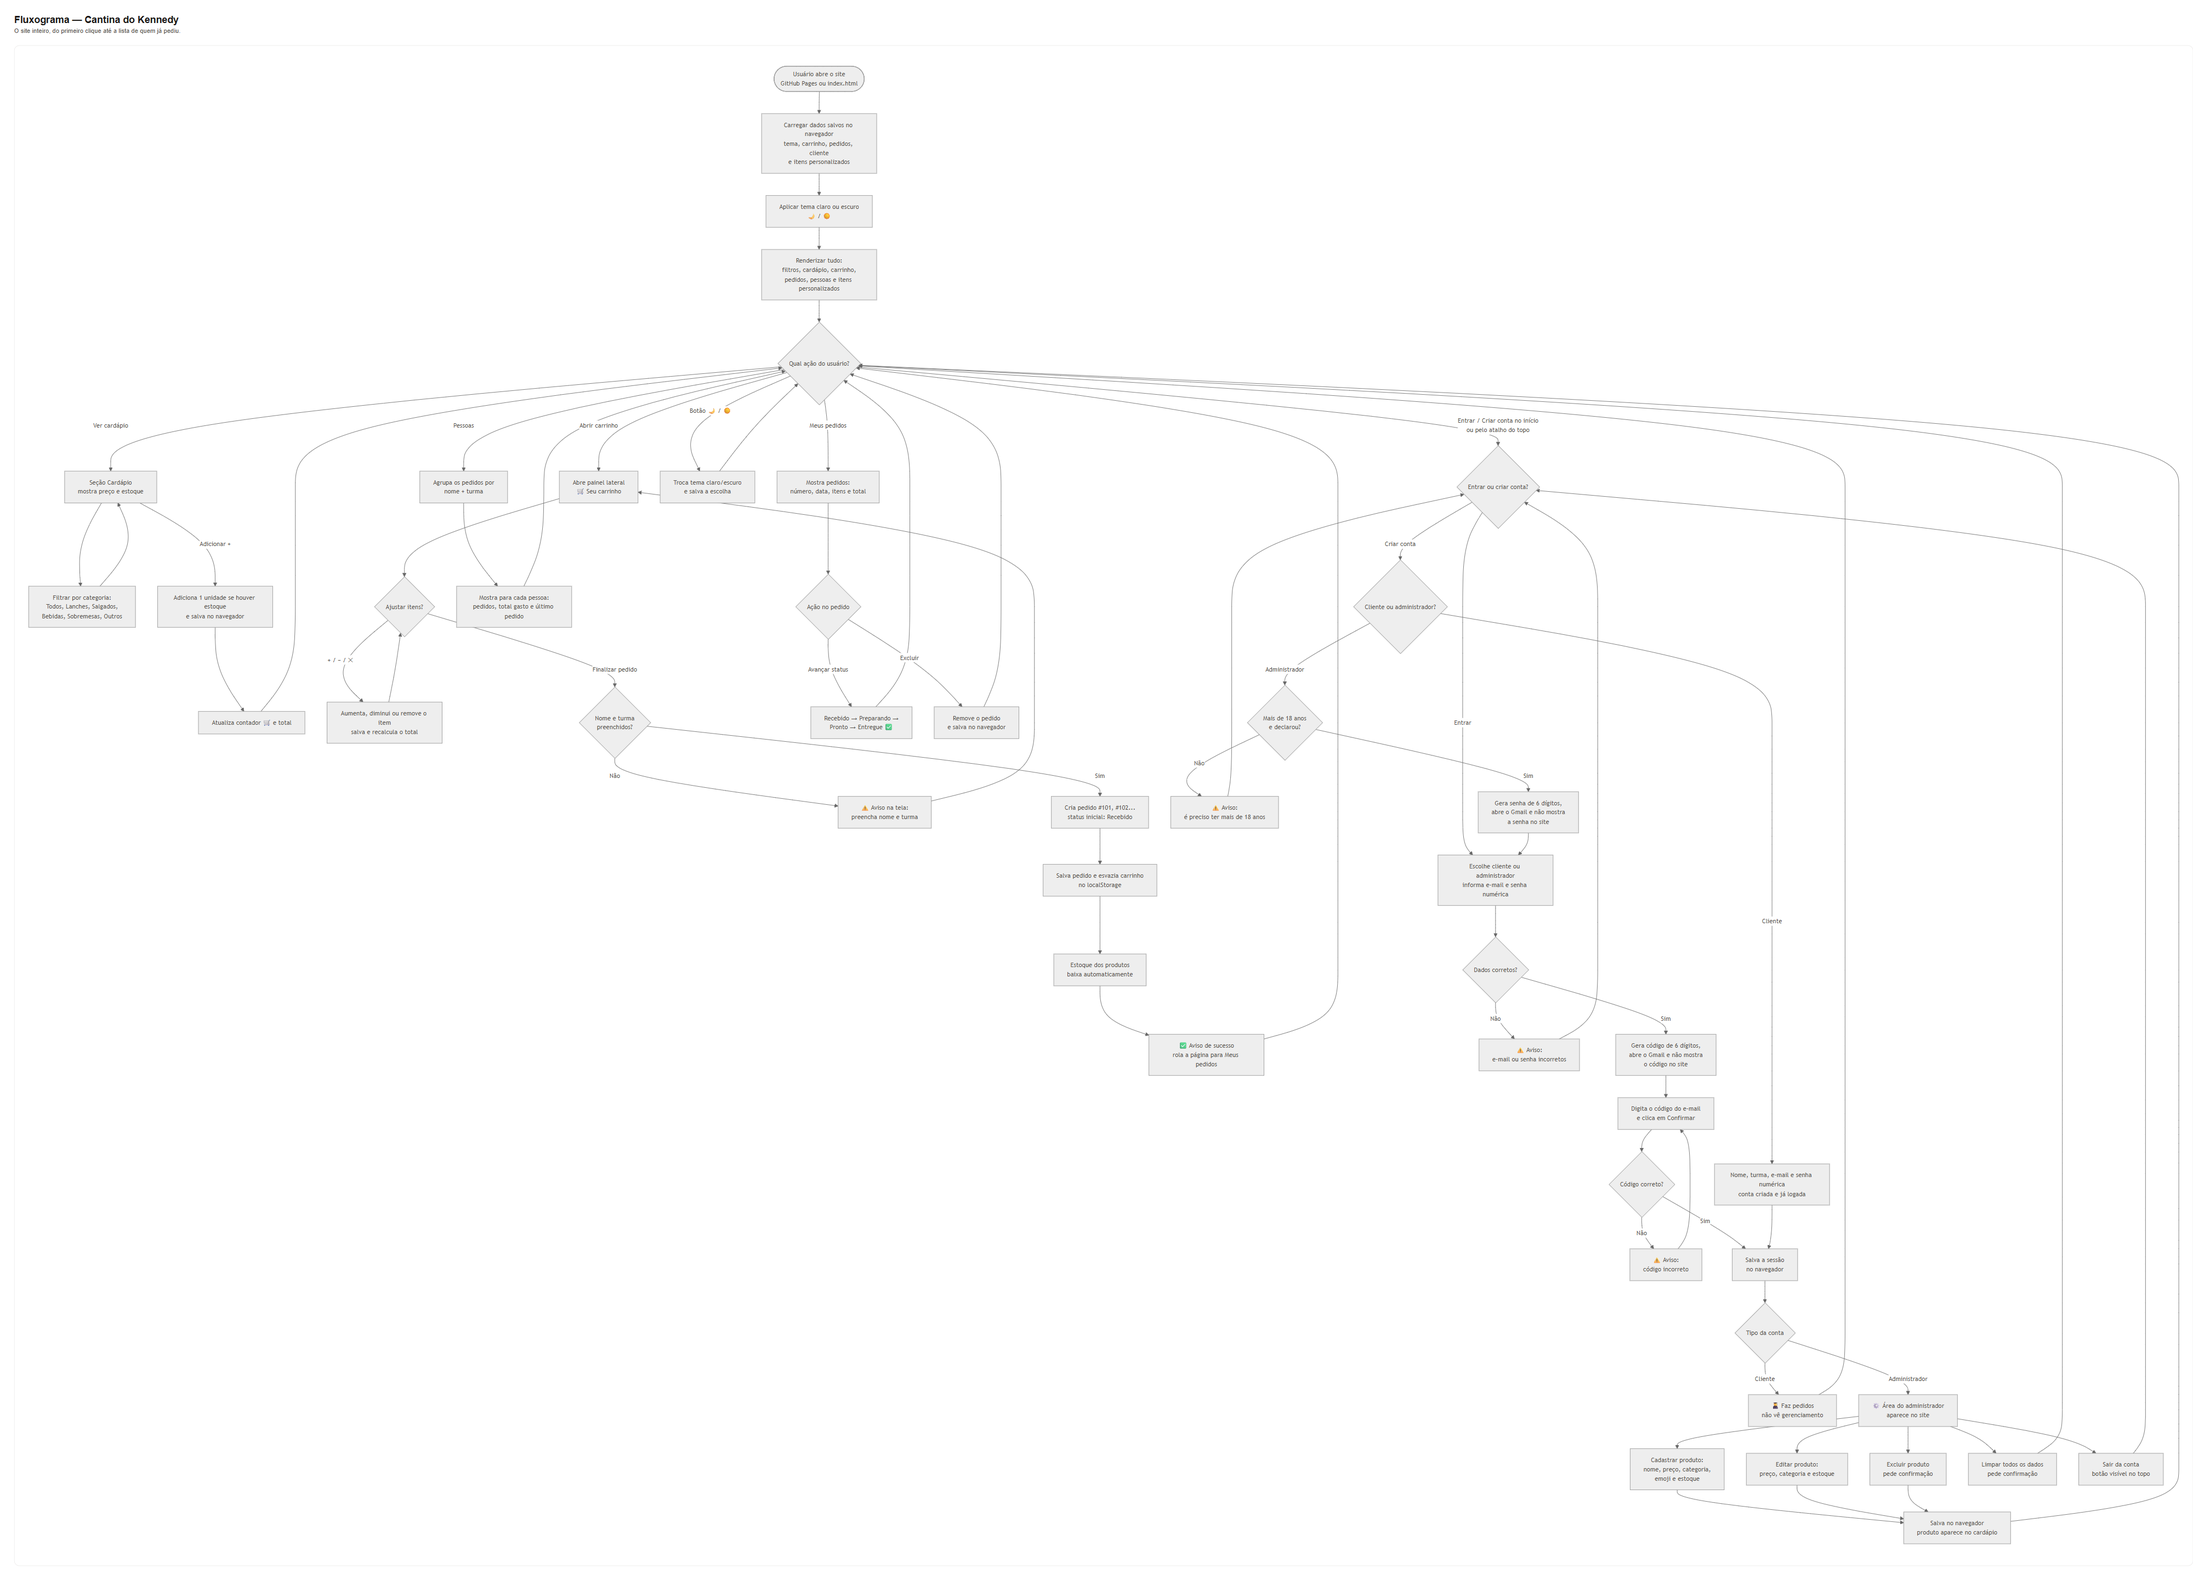
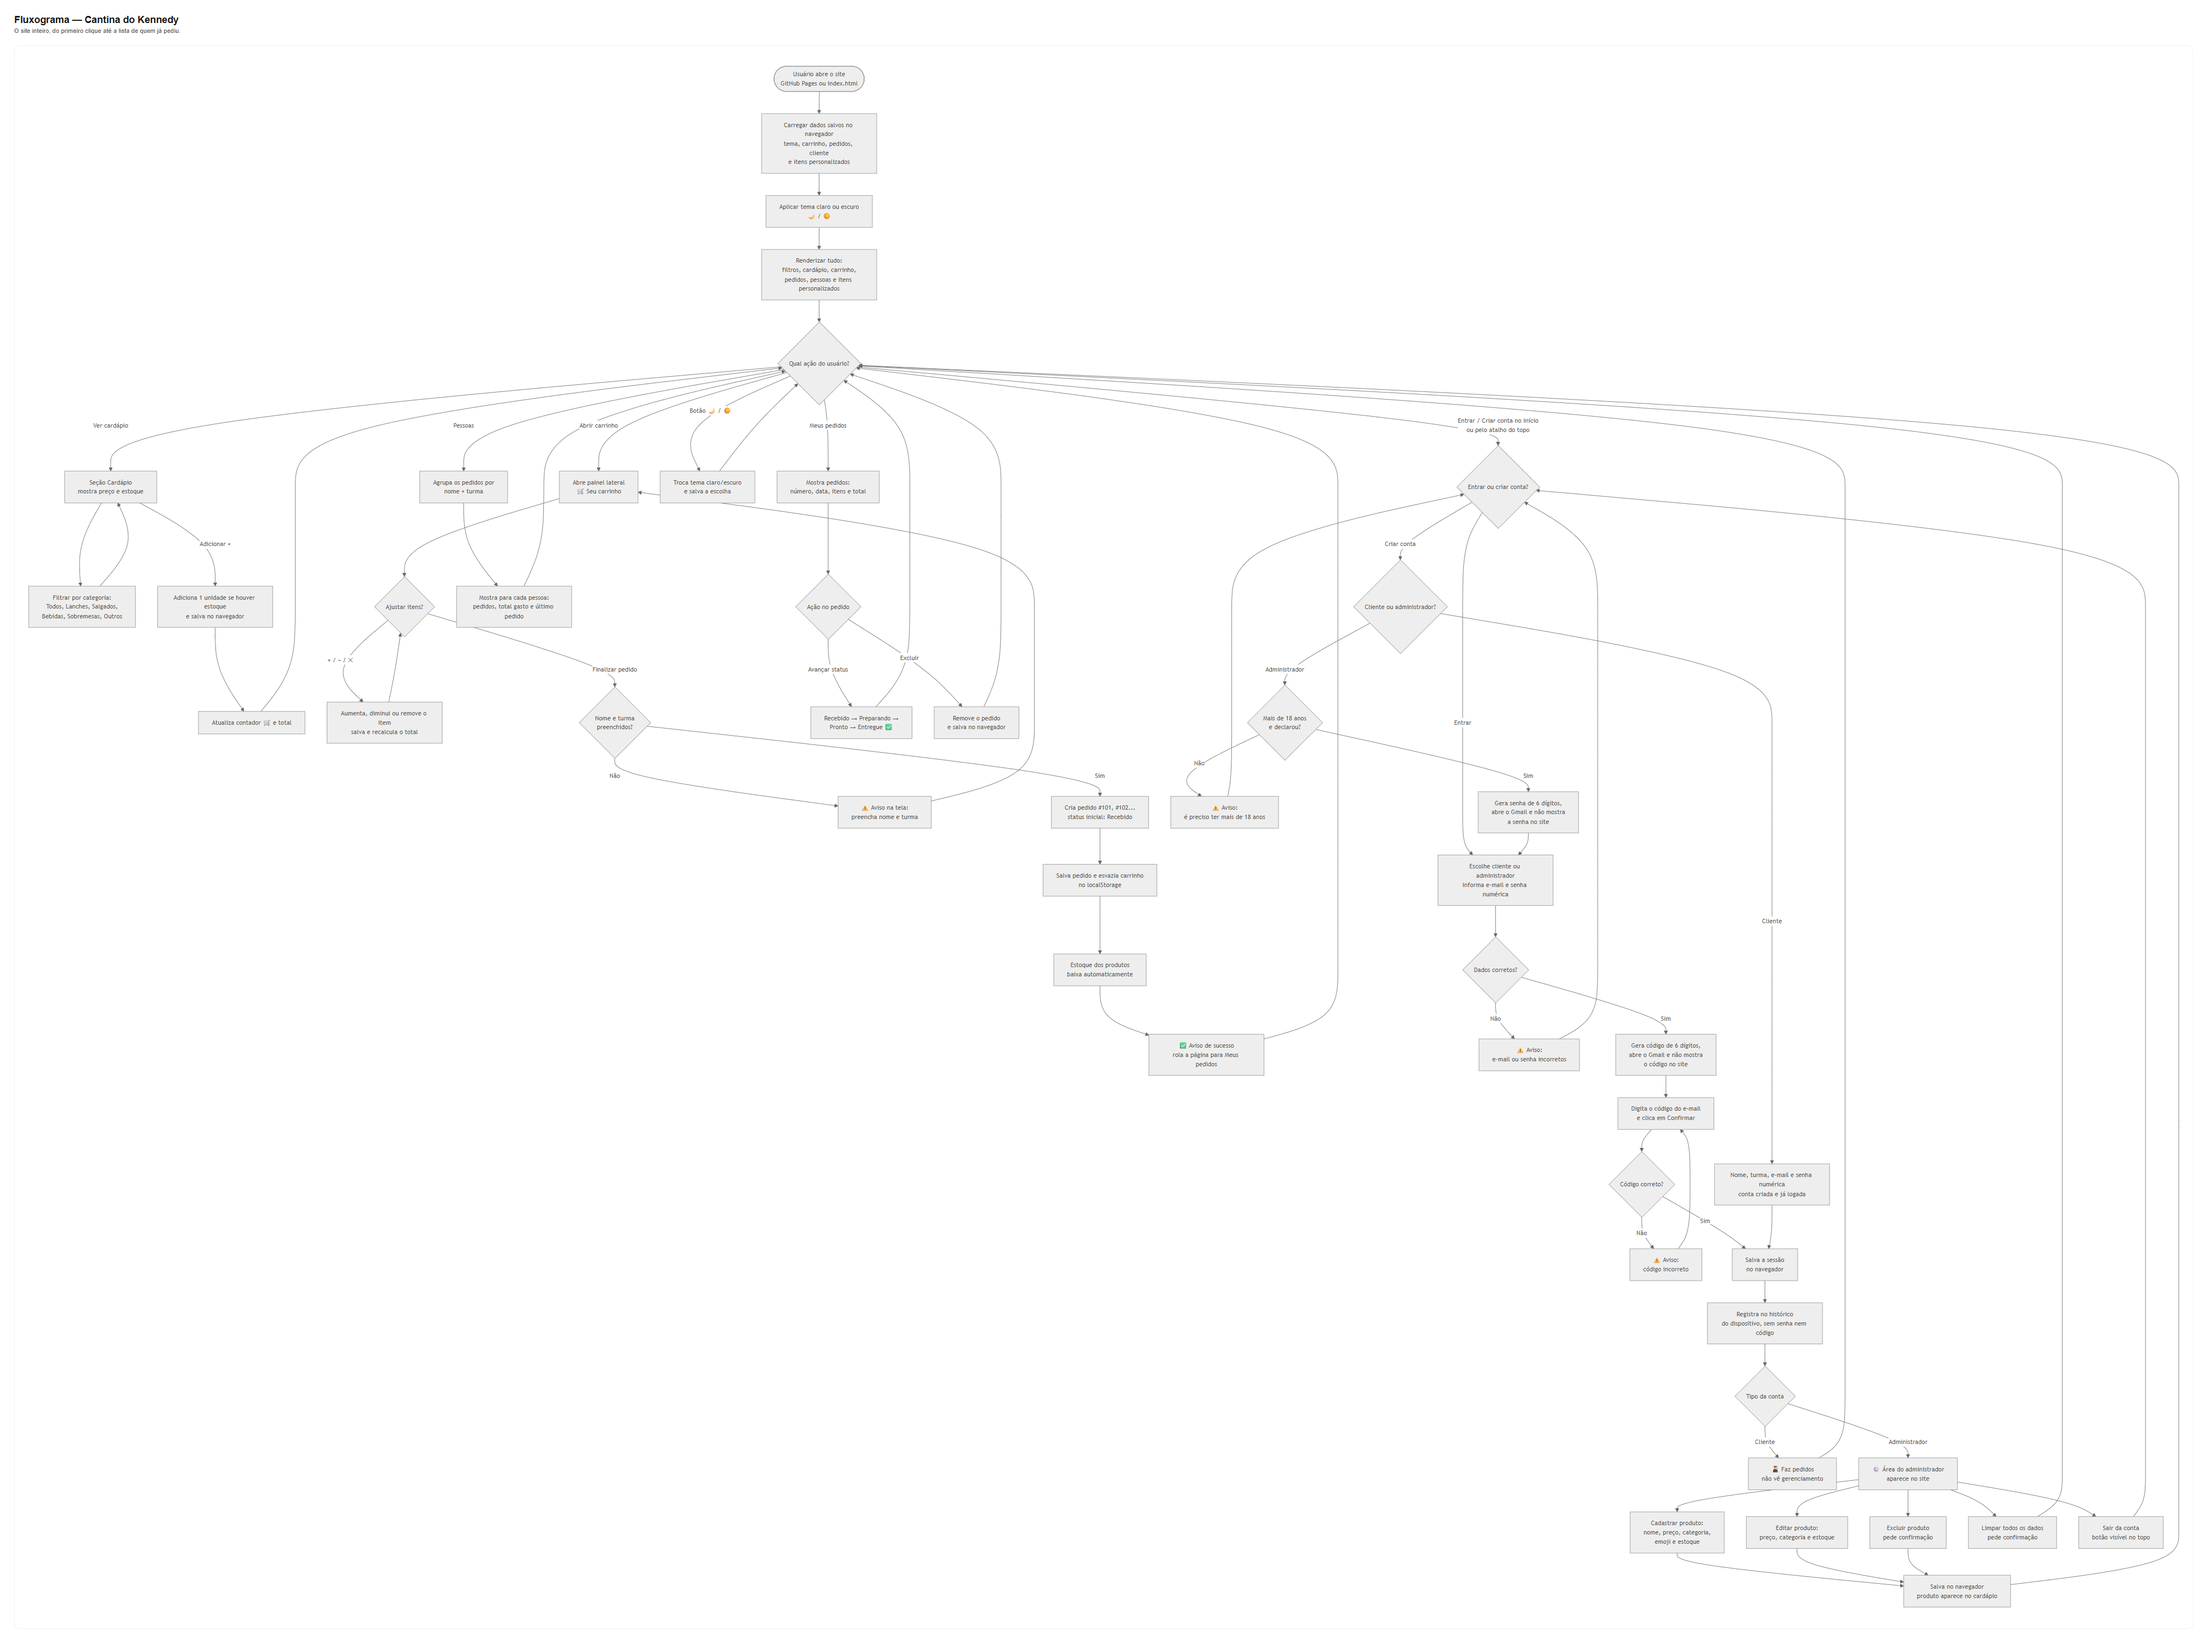
Salva historico de login no dispositivo

diff --git a/app.js b/app.js
@@ -14,6 +14,7 @@ const CHAVES = {
   cardapioExcluidos: 'cantina.cardapio.excluidos',
   cardapioEstoque: 'cantina.cardapio.estoque',
   contas: 'cantina.contas',
+  historicoLogin: 'cantina.historico.login',
   sessao: 'cantina.sessao',
   carrinho: 'cantina.carrinho',
   pedidos: 'cantina.pedidos',
@@ -98,6 +99,9 @@ const el = {
   senhaGerada: $('#senha-gerada'),
   linkGmail: $('#link-gmail'),
   authLogado: $('#auth-logado'),
+  historicoLogin: $('#historico-login'),
+  listaHistorico: $('#lista-historico'),
+  btnLimparHistorico: $('#btn-limpar-historico'),
   nomeLogado: $('#nome-logado'),
   tipoLogado: $('#tipo-logado'),
   btnSair: $('#btn-sair'),
@@ -295,6 +299,36 @@ function renderizarAdmin() {
   }
 }
 
+// Guarda no dispositivo os logins feitos com sucesso (nunca senha ou código).
+function registrarLogin(conta) {
+  const entrada = {
+    nome: conta.nome,
+    email: conta.email,
+    tipo: conta.tipo,
+    data: new Date().toISOString()
+  };
+  historicoLogin = [entrada, ...historicoLogin].slice(0, 30);
+  salvar(CHAVES.historicoLogin, historicoLogin);
+}
+
+function renderizarHistorico() {
+  el.historicoLogin.hidden = historicoLogin.length === 0;
+  el.listaHistorico.innerHTML = historicoLogin.map((entrada) => {
+    const data = new Date(entrada.data);
+    const quando = Number.isNaN(data.getTime())
+      ? ''
+      : data.toLocaleString('pt-BR', {
+        day: '2-digit', month: '2-digit', year: 'numeric',
+        hour: '2-digit', minute: '2-digit'
+      });
+    const tipo = entrada.tipo === 'admin' ? 'administrador' : 'cliente';
+    return '<div class="item-historico">'
+      + `<span><strong>${escapar(entrada.nome)}</strong> <small>(${tipo})</small></span>`
+      + `<small>${escapar(entrada.email)} • ${escapar(quando)}</small>`
+      + '</div>';
+  }).join('');
+}
+
 function criarConta(evento) {
   evento.preventDefault();
 
@@ -352,6 +386,7 @@ function criarConta(evento) {
     alternarModo('login');
     sessao = { tipo: 'cliente', nome, email };
     salvar(CHAVES.sessao, sessao);
+    registrarLogin(conta);
     cliente = { nome, turma: conta.turma };
     salvar(CHAVES.cliente, cliente);
     el.nome.value = nome;
@@ -410,6 +445,7 @@ function confirmarCodigo() {
   const conta = codigoPendente.conta;
   sessao = { tipo: conta.tipo, nome: conta.nome, email: conta.email };
   salvar(CHAVES.sessao, sessao);
+  registrarLogin(conta);
 
   if (conta.tipo === 'cliente') {
     cliente = { nome: conta.nome, turma: conta.turma || '' };
@@ -466,6 +502,7 @@ let cardapioEditados = ler(CHAVES.cardapioEditados, {});
 let cardapioExcluidos = ler(CHAVES.cardapioExcluidos, []);
 let cardapioEstoque = ler(CHAVES.cardapioEstoque, {});
 let contas = ler(CHAVES.contas, []);
+let historicoLogin = ler(CHAVES.historicoLogin, []);
 let senhaPendente = null; // senha do admin só na memória, enquanto o e-mail não é enviado
 let codigoPendente = null; // código do login só na memória, nunca aparece no site
 let modoAuth = 'login';
@@ -860,6 +897,7 @@ function renderizarTudo() {
   renderizarPedidos();
   renderizarPessoas();
   renderizarAdmin();
+  renderizarHistorico();
   renderizarListaAdmin();
 }
 
@@ -947,6 +985,13 @@ el.abaCriar.addEventListener('click', () => {
 });
 el.btnSair.addEventListener('click', sair);
 el.btnSairTopo.addEventListener('click', sair);
+el.btnLimparHistorico.addEventListener('click', () => {
+  if (!confirm('Apagar o histórico de login salvo neste dispositivo?')) return;
+  historicoLogin = [];
+  salvar(CHAVES.historicoLogin, historicoLogin);
+  renderizarHistorico();
+  mostrarMensagem('Histórico de login apagado.');
+});
 el.btnCancelarEdicao.addEventListener('click', resetarFormItem);
 el.btnConfirmarCodigo.addEventListener('click', confirmarCodigo);
 el.btnCancelarCodigo.addEventListener('click', cancelarCodigo);
@@ -997,6 +1042,7 @@ el.btnLimpar.addEventListener('click', () => {
   cardapioExcluidos = [];
   cardapioEstoque = {};
   contas = [];
+  historicoLogin = [];
   sessao = null;
   senhaPendente = null;
   codigoPendente = null;
@@ -1024,6 +1070,7 @@ el.btnLimpar.addEventListener('click', () => {
 // ---------- Início ----------
 if (sessao === null) localStorage.removeItem(CHAVES.sessao);
 if (!Array.isArray(contas)) contas = [];
+if (!Array.isArray(historicoLogin)) historicoLogin = [];
 atualizarCamposCriacao();
 el.nome.value = cliente.nome || '';
 el.turma.value = cliente.turma || '';

diff --git a/index.html b/index.html
@@ -4,7 +4,7 @@
   <meta charset="UTF-8">
   <meta name="viewport" content="width=device-width, initial-scale=1.0">
   <title>Cantina do Kennedy | Peça seu lanche</title>
-  <link rel="stylesheet" href="style.css?v=8">
+  <link rel="stylesheet" href="style.css?v=9">
 </head>
 <body>
 
@@ -150,6 +150,14 @@
           <span>✅ Logado como <strong id="nome-logado"></strong> <small id="tipo-logado"></small></span>
           <button class="botao-texto" id="btn-sair" type="button">Sair</button>
         </div>
+
+        <!-- Histórico de login salvo neste dispositivo -->
+        <div class="historico-login" id="historico-login" hidden>
+          <h3>🕘 Histórico de login neste dispositivo</h3>
+          <p class="auth-dica">Fica salvo só neste navegador. Guardamos nome, e-mail, tipo e data/hora — nunca senha nem código.</p>
+          <div class="lista-historico" id="lista-historico"></div>
+          <button class="botao-secundario" id="btn-limpar-historico" type="button">Limpar histórico</button>
+        </div>
       </div>
     </section>
 
@@ -263,6 +271,6 @@
 
   <div class="toast" id="toast" role="status" aria-live="polite"></div>
 
-  <script src="app.js?v=8"></script>
+  <script src="app.js?v=9"></script>
 </body>
 </html>

diff --git a/fluxograma.html b/fluxograma.html
@@ -83,6 +83,7 @@ flowchart TD
     CODIGOOK -->|"Não"| ERROCODIGO["⚠ Aviso:<br/>código incorreto"]
     ERROCODIGO --> CODIGO
     CODIGOOK -->|"Sim"| SESSAO["Salva a sessão<br/>no navegador"]
+    SESSAO --> HISTORICO["Registra no histórico<br/>do dispositivo, sem senha nem código"]
 
     ENTRADA -->|"Criar conta"| TIPO{"Cliente ou administrador?"}
     TIPO -->|"Cliente"| CRIARCLI["Nome, turma, e-mail e senha numérica<br/>conta criada e já logada"]
@@ -93,7 +94,7 @@ flowchart TD
     IDADE -->|"Sim"| GERARSENHA["Gera senha de 6 dígitos,<br/>abre o Gmail e não mostra<br/>a senha no site"]
     GERARSENHA --> LOGIN
 
-    SESSAO --> TIPOSESSAO{"Tipo da conta"}
+    HISTORICO --> TIPOSESSAO{"Tipo da conta"}
     TIPOSESSAO -->|"Cliente"| CLIENTELOGADO["🧑🎓 Faz pedidos<br/>não vê gerenciamento"]
     TIPOSESSAO -->|"Administrador"| ADMIN["⚙ Área do administrador<br/>aparece no site"]
     CLIENTELOGADO --> MENU

diff --git a/style.css b/style.css
@@ -325,6 +325,12 @@ body.tema-escuro .status-3 { background: #44403c; color: #e7e5e4; }
 .senha-gerada .auth-dica { margin: 10px 0 0; }
 .senha-gerada .campo { display: block; margin-top: 12px; }
 a.botao-primario { display: inline-block; text-decoration: none; cursor: pointer; }
+.historico-login { grid-column: 1 / -1; border: 1px solid var(--borda); background: var(--campo); border-radius: 12px; padding: 14px; margin-top: 12px; }
+.historico-login h3 { margin: 0 0 6px; font-size: 1rem; }
+.lista-historico { display: grid; gap: 8px; margin: 10px 0 12px; max-height: 220px; overflow-y: auto; }
+.item-historico { display: flex; flex-direction: column; gap: 2px; border-bottom: 1px dashed var(--borda); padding-bottom: 8px; }
+.item-historico:last-child { border-bottom: 0; padding-bottom: 0; }
+.item-historico small { color: var(--muted); }
 
 .admin-conteudo { padding-top: 10px; }
 .admin-conteudo h3 { margin: 8px 0 4px; font-size: 1.05rem; }

diff --git a/fluxograma-simples.html b/fluxograma-simples.html
@@ -45,6 +45,7 @@ flowchart LR
 
     B -.-> I["🧑🎓 Cliente"]
     I -.-> J["No início: entrar ou criar conta<br/>senha + código do Gmail"]
+    J -.-> N["Histórico de login salvo<br/>no dispositivo, sem senha"]
     B -.-> L["🛡 Administrador"]
     L -.-> M["Senha só no Gmail<br/>e mais de 18 anos"]
     M -.-> K["Cadastrar, editar,<br/>excluir e ajustar estoque"]
@@ -56,7 +57,7 @@ flowchart LR
     class A,H inicio;
     class B,C,D,E,G acao;
     class F salvo;
-    class I,J,L,M,K extra;
+    class I,J,L,M,K,N extra;
     </pre>
   </div>
 

diff --git a/README.md b/README.md
@@ -10,6 +10,7 @@ Site para fazer pedidos de lanches da cantina.
 - Carrinho com quantidades e total do pedido.
 - Nome e turma do cliente e acompanhamento do status (Recebido → Preparando → Pronto → Entregue).
 - Lista de **pessoas que já pediram** (sem senha).
+- **Histórico de login** salvo no dispositivo (nome, e-mail, tipo e data/hora — sem senha nem código).
 - **Contas separadas**: cliente e administrador.
 - Área do administrador com **CRUD de produtos**: cadastrar, editar, excluir e ajustar estoque.
 - Ao finalizar um pedido, o estoque dos produtos baixa automaticamente.
@@ -39,6 +40,12 @@ Tanto cliente quanto administrador, ao escolher **Entrar**, precisam:
 3. Copiar o código do e-mail, digitá-lo no site e clicar em **“Confirmar e entrar”**.
 
 O código **não aparece no site**: fica só dentro do e-mail e na memória da aba. Se o e-mail não abriu, use **“Reabrir e-mail com o código”**. Se errar ou desistir, clique em **“Cancelar”** para começar de novo.
+
+### 🕘 Histórico de login
+
+Cada login feito com sucesso fica salvo no **localStorage deste navegador/dispositivo**. Na seção Minha conta aparece a lista com nome, e-mail, tipo de conta e data/hora do acesso — mais recente primeiro (até os 30 últimos). **Nunca** são guardadas senhas nem códigos.
+
+O botão **“Limpar histórico”** apaga só essa lista. O botão de limpar todos os dados também apaga o histórico. Se trocar de navegador, dispositivo ou apagar os dados do site, o histórico não vem junto.
 
 > ⚠ Como o site é estático (GitHub Pages), ele **não envia e-mails sozinho**: o Gmail abre com a mensagem pronta e a pessoa clica em enviar. A idade é conferida pela data de nascimento informada — também não há verificação com documento. Tudo fica salvo somente neste navegador. Isso é uma separação simples para o projeto, não uma segurança de verdade.
 

diff --git a/fluxograma.md b/fluxograma.md
@@ -61,6 +61,7 @@ flowchart TD
     CODIGOOK -->|"Não"| ERROCODIGO["⚠ Aviso:<br/>código incorreto"]
     ERROCODIGO --> CODIGO
     CODIGOOK -->|"Sim"| SESSAO["Salva a sessão<br/>no navegador"]
+    SESSAO --> HISTORICO["Registra no histórico<br/>do dispositivo, sem senha nem código"]
 
     ENTRADA -->|"Criar conta"| TIPO{"Cliente ou administrador?"}
     TIPO -->|"Cliente"| CRIARCLI["Nome, turma, e-mail e senha numérica<br/>conta criada e já logada"]
@@ -71,7 +72,7 @@ flowchart TD
     IDADE -->|"Sim"| GERARSENHA["Gera senha de 6 dígitos,<br/>abre o Gmail e não mostra<br/>a senha no site"]
     GERARSENHA --> LOGIN
 
-    SESSAO --> TIPOSESSAO{"Tipo da conta"}
+    HISTORICO --> TIPOSESSAO{"Tipo da conta"}
     TIPOSESSAO -->|"Cliente"| CLIENTELOGADO["🧑🎓 Faz pedidos<br/>não vê gerenciamento"]
     TIPOSESSAO -->|"Administrador"| ADMIN["⚙ Área do administrador<br/>aparece no site"]
     CLIENTELOGADO --> MENU

diff --git a/fluxograma-simples.md b/fluxograma-simples.md
@@ -24,6 +24,7 @@ flowchart LR
 
     B -.-> I["🧑🎓 Cliente"]
     I -.-> J["No início: entrar ou criar conta<br/>senha + código do Gmail"]
+    J -.-> N["Histórico de login salvo<br/>no dispositivo, sem senha"]
     B -.-> L["🛡 Administrador"]
     L -.-> M["Senha só no Gmail<br/>e mais de 18 anos"]
     M -.-> K["Cadastrar, editar,<br/>excluir e ajustar estoque"]
@@ -35,5 +36,5 @@ flowchart LR
     class A,H inicio;
     class B,C,D,E,G acao;
     class F salvo;
-    class I,J,L,M,K extra;
+    class I,J,L,M,K,N extra;
 ```
